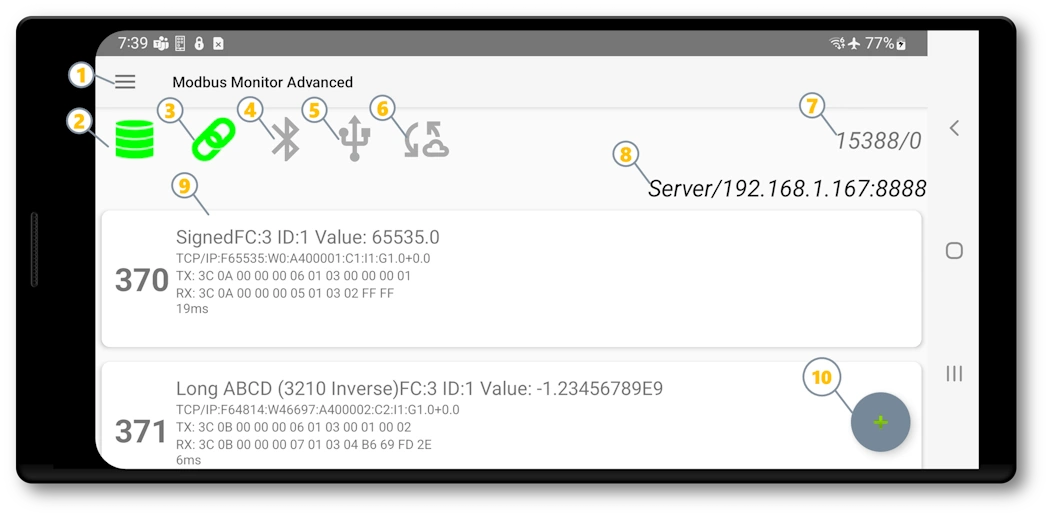
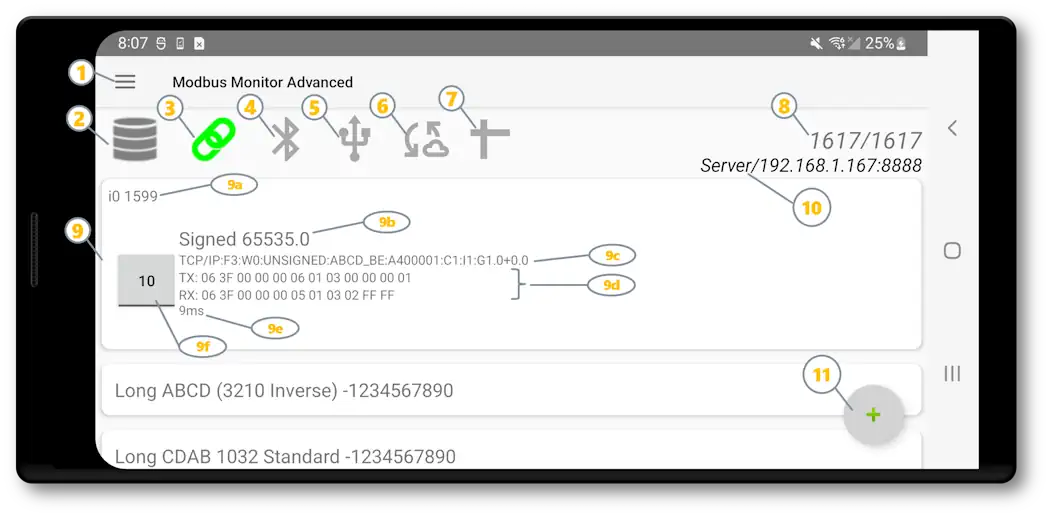
added monitoring piont info

diff --git a/docs/products/android/advanced-guide.md b/docs/products/android/advanced-guide.md
@@ -84,12 +84,22 @@ The main interface combines status indicators with action buttons for easy opera
 | **[Server Mode](#modbus-server-mode-slave)** | [2] | Server status/toggle | Start/stop Modbus TCP server functionality |
 | **[Client Mode](#client-mode---polling-remote-devices)** | [3] | Client status/toggle | Start/stop Modbus client polling |
 | **Bluetooth Status** | [4] | Communication indicators | Bluetooth control and status |
-| **Serial Status** | [5] | USB Serial indicators | USB and USB-OTG connected device control panel and connection status |
+| **Serial Status** | [5] | USB Serial indicators | USB and USB-OTG connected device control panel and connection status. Shows status or click to see available USB devices that can be used |
 | **IoT** | [6] | IoT status | IoT controls and status |
-| **Packet Counters** | [7] | Statistics display | Good/Bad packet counts and error tracking |
-| **Server Info** | [8] | Network details | IP address and port when server is active |
+| **Google Sheets** | [7] | Statistics display | Controls for Google Sheets  |
+| **Packet Counters** | [8] | Statistics display | Good/Bad packet counts and error tracking |
 | **Monitor Points** | [9] | Data display area | Live values, config details, response times, click or swipe for edits |
-| **Quick Add** | [10] | Add button | (+) button to create new monitor points |
+| **Monitor Points - Index** | [9a] | Monitor point index and counter | Sequential monitor point number (i) and request attempt counter for tracking polling activity |
+| **Monitor Points - Value** | [9b] | Primary data display line | Shows monitor point name, current live value, and optional engineering unit suffix for easy identification |
+| **Monitor Points - Config** | [9c] | Configuration summary line | Displays key settings: communication channel, write function code, data type, byte swap, Modbus address, register count, slave ID, and scaling parameters |
+| **Monitor Points - Packet** | [9d] | Communication packet display | Shows raw Modbus packet data for both transmitted requests and received responses for debugging and analysis |
+| **Monitor Points - Delay** | [9e] | Communication timing metrics | Displays response time delay between packet transmission and reception, useful for network performance monitoring |
+| **Monitor Points - Preset** | [9f] | Quick write button | Interactive button for instantly writing preset values to device when configured; requires proper write function code setup |
+| **Server Info** | [10] | Network details | IP address and port when server is active |
+| **Quick Add** | [11] | Add button | (+) button to create new monitor points |
+
+!!! note "Monitor Point Configuration Display"
+    Monitor Point configuration details (elements 9c to 9e) can be hidden or shown using the "Hide or Unhide Configuration" menu option in the Monitor Point Management dialog.
 
 !!! info "Detailed Coverage Ahead"
     Each of these interface elements will be explained in comprehensive detail throughout this guide. The numbered references [1]-[10] correspond to the annotations in the screenshot above, making it easy to follow along. New users should focus on elements [3], [9], and [10] to get started, while advanced users can utilize all features for complex multi-device scenarios.
@@ -292,6 +302,8 @@ Access comprehensive app configuration through **[Hamburger Menu [1]](#hamburger
 ## Client Mode - Polling Remote Devices
 
 **Client Mode** transforms your Android device into a powerful **Modbus Master** that can poll multiple remote devices for live data. This is the primary mode for field engineers and technicians who need to monitor, troubleshoot, and analyze industrial systems.
+
+**Advanced Multi-Channel Capability**: Each [Monitor Point](#monitor-points---core-concept) becomes a powerful data source with its own independent communication channel (Serial, TCP/IP, or Bluetooth). This allows you to collect data from different devices using different protocols simultaneously, enabling you to configure and monitor systems from various sources and build comprehensive system-level information from a single interface.
 
 
 <figure markdown>
